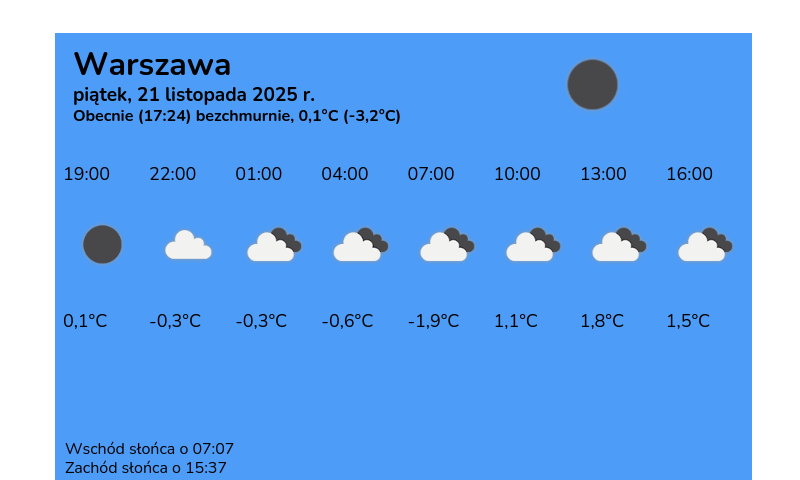
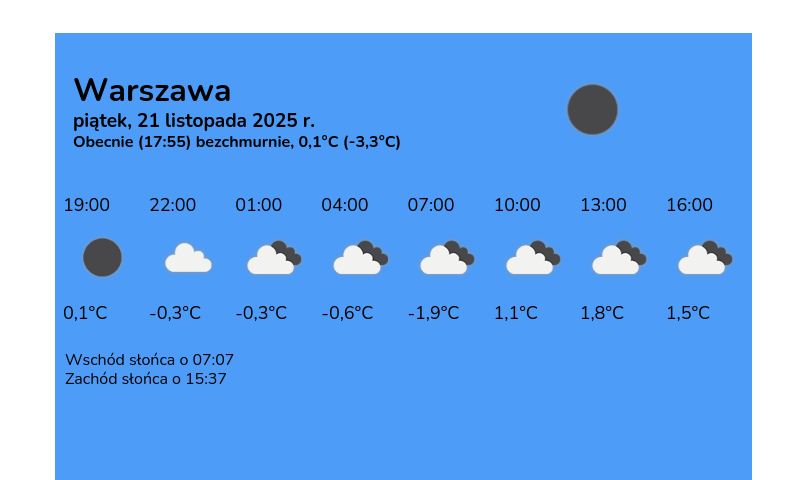
wygląda względnie

diff --git a/static/style.css b/static/style.css
@@ -85,7 +85,7 @@ body {
     justify-content: space-between;
     padding: 0 0 0 10px;
     line-height: 1.2;
-    max-height: 25%;
+    height: 33%;
 }
 
 .bottom-section {
@@ -93,14 +93,14 @@ body {
     display: flex;
     flex-direction: column;
     align-items: flex-start;
-    justify-content: flex-start;
+    justify-content: center;
     padding: 0 0 0 10px;
     line-height: 1.2;
     max-height: 25%;
 }
 
 .top-section h1 {
-    margin-top: 4px;
+    margin-top: 6px;
     margin-bottom: 0;
 }
 
@@ -119,7 +119,7 @@ body {
 .middle-section {
     display: flex;
     flex-direction: row;
-    flex: 1;
+    /*flex: 1;*/
     overflow: hidden;
     box-sizing: border-box;
     min-width: 0;
@@ -135,4 +135,9 @@ body {
     min-width: 0;
     overflow: hidden;
     font-size: 18px;
+}
+
+.middle-section > div p {
+    margin: 2px 0;
+    line-height: 1.2;
 }

diff --git a/output/pogoda_potem.html b/output/pogoda_potem.html
@@ -12,7 +12,7 @@
             <div class="kolumna-lewa">
                 <h1>Warszawa</h1>
                 <h3>piątek, 21 listopada 2025 r.</h3>
-                <h4>Obecnie (17:24) bezchmurnie, 0,1°C (-3,2°C)</h4>
+                <h4>Obecnie (17:55) bezchmurnie, 0,1°C (-3,3°C)</h4>
             </div>
             <div class="kolumna-prawa">
                 <img class="ikona-pogody" src="../static/ikonyOpenWeather/01n.png" alt="ilustracja pogody">
